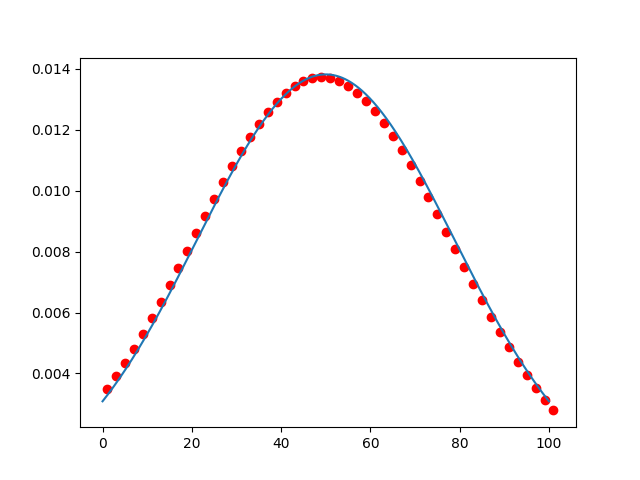
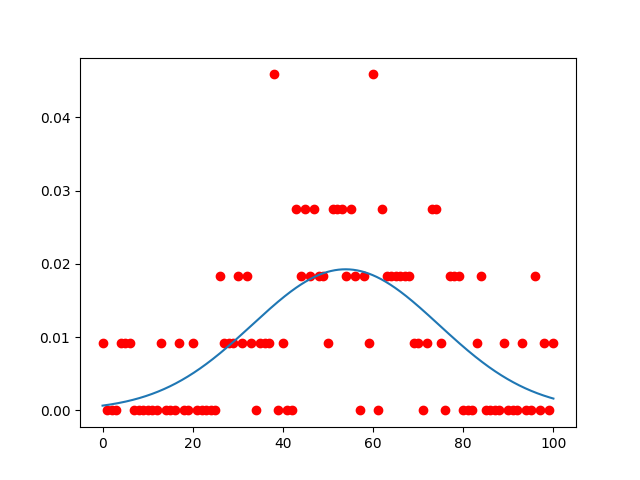
przeniesienie aplikacji do serii testów i ulepszanie kodu

diff --git a/Gauss/gauss.py b/Gauss/gauss.py
@@ -44,17 +44,22 @@ class Gauss:
     def gauss(self, x):
         return (1 / (self.dev * math.sqrt(2*math.pi))) * math.exp(((-1)*pow((x - self.avg), 2))/(2 * pow(self.dev, 2)))
     def point_projection(self):
+        suma = 0
         for i in range(self.minimum, self.maximum+1):
-            self.points.append(self.gauss(i))
+            suma += self.data.count(i)
+            print(self.data.count(i))
+            self.points.append(self.data.count(i)/self.n)
+        print(suma)
+
+        print(np.sum(self.points))
     def plot_write(self):
         # rysowanie krzywej gaussa
         x_axis = np.arange(self.minimum, self.maximum, 0.01)
-        plt.plot(x_axis, norm.pdf(x_axis, statistics.mean(x_axis), statistics.stdev(x_axis)))
+        plt.plot(x_axis, norm.pdf(x_axis, self.avg, self.dev))
 
         # rzutowanie punktów na wykres
         for i in range(0, len(self.points), self.step):
-            print(i)
-            plt.scatter(i+1, self.points[i], color="red")
+            plt.scatter(self.minimum+i, self.points[i], color="red")
 
         plt.savefig("plot.png")
 

diff --git a/Gauss/main.py b/Gauss/main.py
@@ -1,5 +1,5 @@
 from gauss import Gauss
 
-test = Gauss(0, 100, 2, "test.xlsx")
+test = Gauss(0, 100, 1, "test.xlsx")
 test.run()
 print(test)
